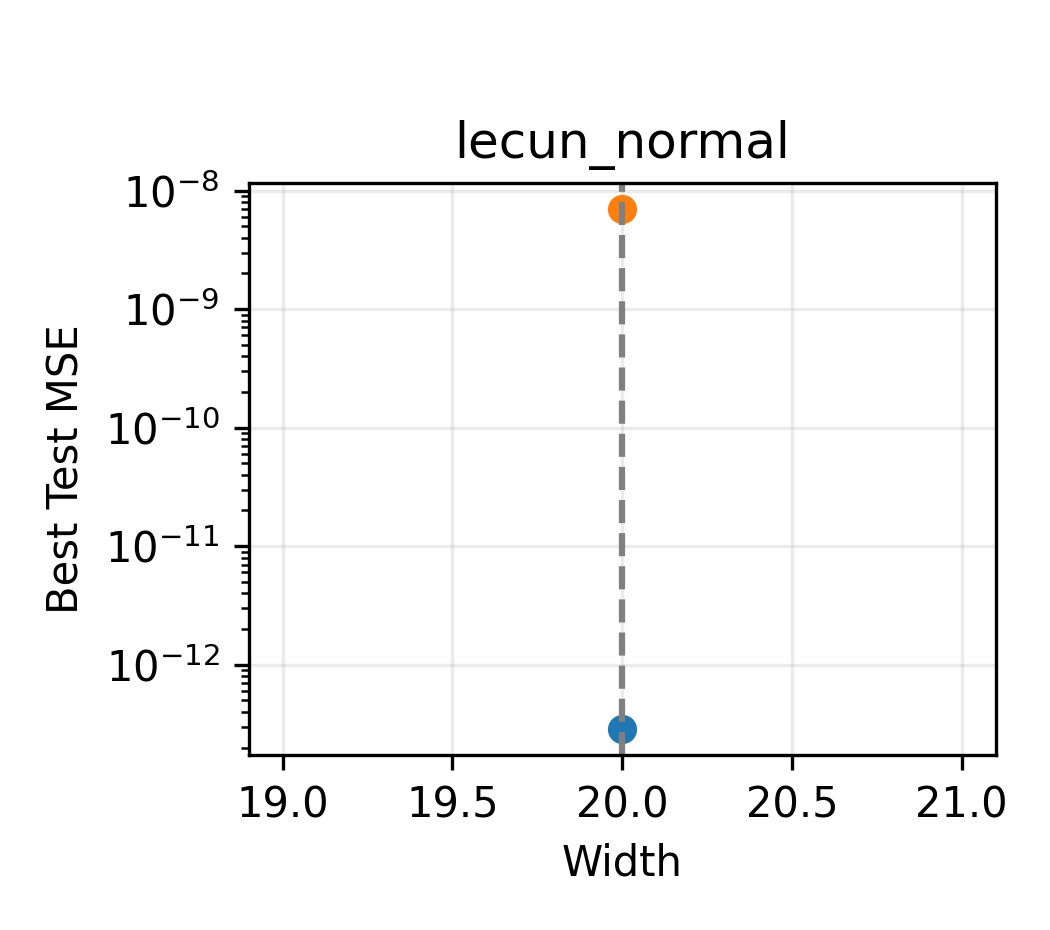
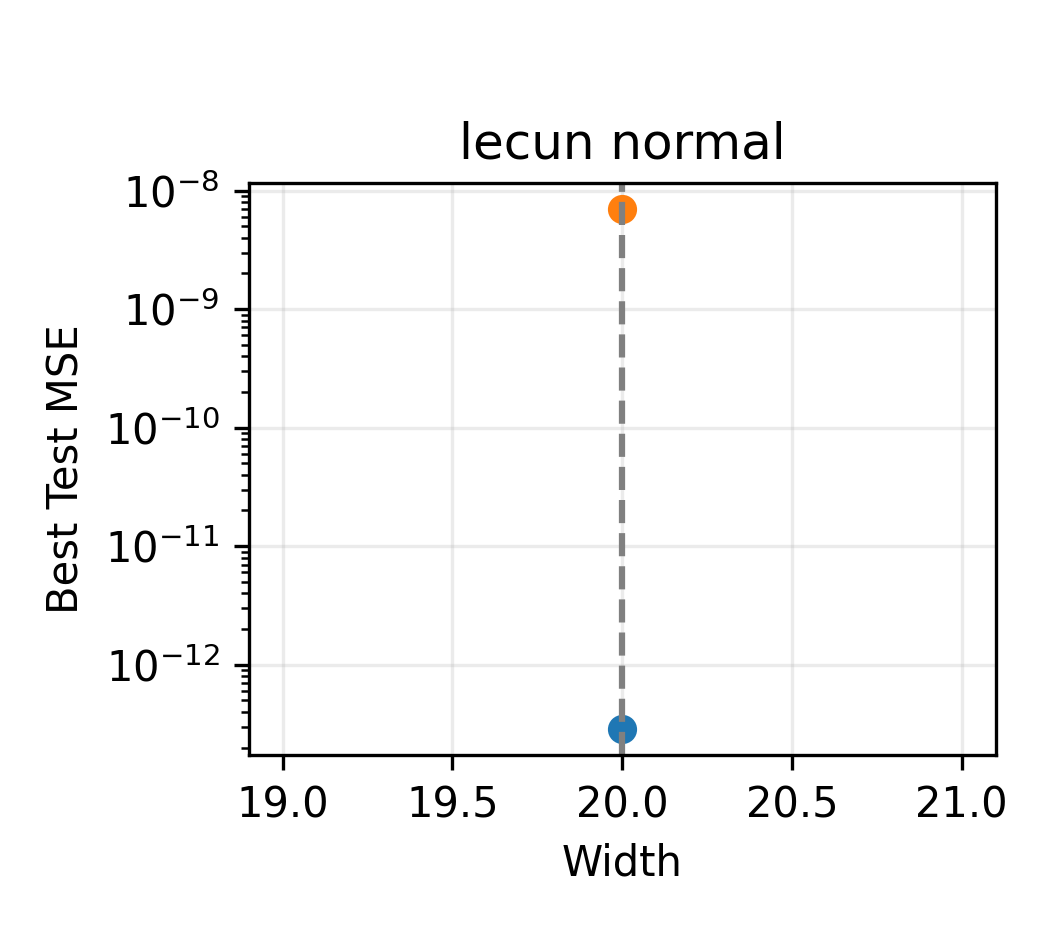
.

Changed region(s): [[0.4267, 0.1247, 0.7619, 0.1871]]

diff --git a/Figure2/figure2.py b/Figure2/figure2.py
@@ -737,7 +737,7 @@ for r, width in enumerate(widths_order):
 
         # Titles / labels
         if r == 0:
-            ax.set_title(init_name)
+            ax.set_title(init_name.replace("_", " "))
         if c == 0:
             ax.set_ylabel(f"width={width}\nTest MSE")
         if r == len(widths_order) - 1:
@@ -815,7 +815,7 @@ for r, width in enumerate(widths_order):
 
         # Titles / labels
         if r == 0:
-            ax.set_title(init_name)
+            ax.set_title(init_name.replace("_", " "))
         if c == 0:
             ax.set_ylabel(f"width={width}\nTest MSE")
         if r == len(widths_order) - 1:
@@ -873,7 +873,7 @@ for c, init_name in enumerate(inits_order):
 
     ax.set_yscale("log")
     ax.set_xlabel("Width")
-    ax.set_title(init_name)
+    ax.set_title(init_name.replace("_", " "))
     ax.grid(True, alpha=0.25)
     ax.axvline(x=20, linestyle='dashed', color='grey')
 
